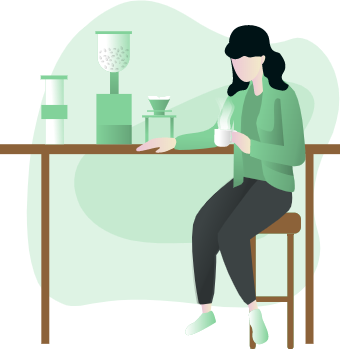
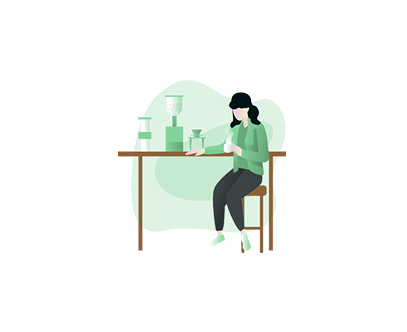
添加数据统计窗口占位图片自定义选项

diff --git a/src/Local/ProjectEye/Views/StatisticWindow.xaml b/src/Local/ProjectEye/Views/StatisticWindow.xaml
@@ -174,7 +174,7 @@
                                         </Grid>
                                         <Grid Grid.Column="1" Margin="0,0,0,0" HorizontalAlignment="Center" VerticalAlignment="Center">
                                             <StackPanel>
-                                                <Image Width="150" Height="150" Source="/ProjectEye;component/Resources/web_developer.png"  HorizontalAlignment="Center"/>
+                                                <Image MaxWidth="300" Source="{Binding Data.WorktimeImageSource}"  HorizontalAlignment="Center"/>
                                                 <TextBlock  HorizontalAlignment="Center" Text="{Binding Data.WorkAnalysis}" TextWrapping="WrapWithOverflow" Margin="0,20,0,0" FontSize="16"/>
                                             </StackPanel>
 
@@ -209,7 +209,7 @@
                                         </Grid>
                                         <Grid Grid.Column="1" Margin="0,0,0,0" HorizontalAlignment="Center" VerticalAlignment="Center">
                                             <StackPanel>
-                                                <Image Width="150" Height="150" Source="/ProjectEye;component/Resources/coffee_lover.png" />
+                                                <Image MaxWidth="300" Source="{Binding Data.ResttimeImageSource}" />
                                                 <TextBlock  HorizontalAlignment="Center" Text="{Binding  Data.RestAnalysis}" TextWrapping="WrapWithOverflow" Margin="0,20,0,0" FontSize="16"/>
                                             </StackPanel>
                                         </Grid>
@@ -245,7 +245,7 @@
                                         </Grid>
                                         <Grid Grid.Column="1" Margin="0,0,0,0" HorizontalAlignment="Center" VerticalAlignment="Center">
                                             <StackPanel>
-                                                <Image Width="150" Height="150" Source="/ProjectEye;component/Resources/office_work_.png" />
+                                                <Image MaxWidth="300" Source="{Binding Data.SkipImageSource}" />
                                                 <TextBlock  HorizontalAlignment="Center" Text="{Binding Data.SkipAnalysis}" TextWrapping="WrapWithOverflow" Margin="0,20,0,0" FontSize="16"/>
                                             </StackPanel>
 

diff --git a/src/Local/ProjectEye/Views/OptionsWindow.xaml b/src/Local/ProjectEye/Views/OptionsWindow.xaml
@@ -469,6 +469,26 @@
                                 </Grid>
                             </StackPanel>
                         </Grid>
+
+                        <TextBlock Text="{DynamicResource Lang_StatisticsWindow}" FontSize="14" FontWeight="Bold" Margin="0,20,0,0"/>
+                        <TextBlock Text="{DynamicResource Lang_DataWindowWorkTimeImagePath}"  Margin="0,15,0,0"/>
+                        <ui:Project1UIInput  TextWrapping="NoWrap" Text="{Binding Model.Data.Style.DataWindowWorkTimeImagePath}" Width="auto" Placeholder="{DynamicResource Lang_Leaveblankfordefault}"
+                                            Type="FileSelect"
+                                                Icon="Photo"
+                                            ExtNames=".jpg|*.jpg|.png|*.png"
+                                             Margin="0,10,0,0"/>
+                        <TextBlock Text="{DynamicResource Lang_DataWindowRestTimeImagePath}"  Margin="0,15,0,0"/>
+                        <ui:Project1UIInput  TextWrapping="NoWrap" Text="{Binding Model.Data.Style.DataWindowRestTimeImagePath}" Width="auto" Placeholder="{DynamicResource Lang_Leaveblankfordefault}"
+                                            Type="FileSelect"
+                                                Icon="Photo"
+                                            ExtNames=".jpg|*.jpg|.png|*.png"
+                                             Margin="0,10,0,0"/>
+                        <TextBlock Text="{DynamicResource Lang_DataWindowSkipImagePath}"  Margin="0,15,0,0"/>
+                        <ui:Project1UIInput  TextWrapping="NoWrap" Text="{Binding Model.Data.Style.DataWindowSkipImagePath}" Width="auto" Placeholder="{DynamicResource Lang_Leaveblankfordefault}"
+                                            Type="FileSelect"
+                                                Icon="Photo"
+                                            ExtNames=".jpg|*.jpg|.png|*.png"
+                                             Margin="0,10,0,0"/>
                     </StackPanel>
                 </ScrollViewer>
             </TabItem>

diff --git a/src/Local/ProjectEye/Resources/Language/en.xaml b/src/Local/ProjectEye/Resources/Language/en.xaml
@@ -204,5 +204,9 @@
     <sys:String x:Key="Lang_Remainingtime">Remaining time</sys:String>
     <sys:String x:Key="Lang_Tomatodescription2">The Pomodoro Technique is a time management method developed by Francesco Cirillo in the late 1980s.The technique uses a timer to break down work into intervals, traditionally 25 minutes in length, separated by short breaks. Each interval is known as a pomodoro, from the Italian word for 'tomato', after the tomato-shaped kitchen timer that Cirillo used as a university student.</sys:String>
     <sys:String x:Key="Lang_Tomato_IsEnabledInteractiveModel">Enabled interactive model</sys:String>
+    <sys:String x:Key="Lang_DataWindowWorkTimeImagePath">Working time placeholder image</sys:String>
+    <sys:String x:Key="Lang_DataWindowRestTimeImagePath">Rest time placeholder image</sys:String>
+    <sys:String x:Key="Lang_DataWindowSkipImagePath">Skip placeholder image</sys:String>
+    <sys:String x:Key="Lang_StatisticsWindow">Statistics window</sys:String>
 
 </ResourceDictionary>

diff --git a/src/Local/ProjectEye/Resources/Language/zh.xaml b/src/Local/ProjectEye/Resources/Language/zh.xaml
@@ -210,5 +210,9 @@
     <sys:String x:Key="Lang_Tomatodescription2">番茄工作法（Pomodoro Technique）是一种时间管理法，在1980年代由Francesco Cirillo创立。该方法使用一个定时器来分割出一个一般为25分钟的工作时间和5分钟的休息时间，而那些时间段被称为pomodoros，为意大利语单词 pomodoro（中文：番茄）之复数。</sys:String>
     <sys:String x:Key="Lang_Tomato_IsEnabledInteractiveModel">启用交互模式</sys:String>
 
+    <sys:String x:Key="Lang_DataWindowWorkTimeImagePath">工作时间占位图片</sys:String>
+    <sys:String x:Key="Lang_DataWindowRestTimeImagePath">休息时间占位图片</sys:String>
+    <sys:String x:Key="Lang_DataWindowSkipImagePath">跳过次数占位图片</sys:String>
+    <sys:String x:Key="Lang_StatisticsWindow">数据统计窗口</sys:String>
 
 </ResourceDictionary>

diff --git a/src/Local/ProjectEye/ViewModels/StatisticViewModel.cs b/src/Local/ProjectEye/ViewModels/StatisticViewModel.cs
@@ -1,4 +1,5 @@
 using Project1.UI.Controls.ChartControl.Models;
+using Project1.UI.Cores;
 using ProjectEye.Core;
 using ProjectEye.Core.Service;
 using ProjectEye.Models;
@@ -61,9 +62,20 @@ namespace ProjectEye.ViewModels
             HandleMonthData();
             HandleWeekData();
             Analysis();
+            LoadImages();
         }
 
+        private void LoadImages()
+        {
+            string worktimeimgpath = string.IsNullOrEmpty(config.options.Style.DataWindowWorkTimeImagePath) ? "pack://application:,,,/ProjectEye;component/Resources/web_developer.png" : config.options.Style.DataWindowWorkTimeImagePath;
+            string resttimeimgpath = string.IsNullOrEmpty(config.options.Style.DataWindowRestTimeImagePath) ? "pack://application:,,,/ProjectEye;component/Resources/coffee_lover.png" : config.options.Style.DataWindowRestTimeImagePath;
+            string skipimgpath = string.IsNullOrEmpty(config.options.Style.DataWindowSkipImagePath) ? "pack://application:,,,/ProjectEye;component/Resources/office_work_.png" : config.options.Style.DataWindowSkipImagePath;
 
+            Data.WorktimeImageSource = BitmapImager.Load(worktimeimgpath);
+            Data.ResttimeImageSource= BitmapImager.Load(resttimeimgpath);
+            Data.SkipImageSource = BitmapImager.Load(skipimgpath);
+
+        }
 
         private void MigrateCheck()
         {

diff --git a/src/Local/ProjectEye/Models/StatisticModel.cs b/src/Local/ProjectEye/Models/StatisticModel.cs
@@ -1,5 +1,6 @@
 using Project1.UI.Controls.ChartControl.Models;
 using System.Collections.Generic;
+using System.Windows.Media;
 
 namespace ProjectEye.Models
 {
@@ -410,6 +411,47 @@ namespace ProjectEye.Models
             }
         }
         #endregion
+        #endregion
+
+        #region 窗口占位图片
+        private ImageSource WorktimeImageSource_;
+        public ImageSource WorktimeImageSource
+        {
+            get
+            {
+                return WorktimeImageSource_;
+            }
+            set
+            {
+                WorktimeImageSource_ = value;
+            }
+        }
+
+        private ImageSource ResttimeImageSource_;
+        public ImageSource ResttimeImageSource
+        {
+            get
+            {
+                return ResttimeImageSource_;
+            }
+            set
+            {
+                ResttimeImageSource_ = value;
+            }
+        }
+        private ImageSource SkipImageSource_;
+        public ImageSource SkipImageSource
+        {
+            get
+            {
+                return SkipImageSource_;
+            }
+            set
+            {
+                SkipImageSource_ = value;
+            }
+        }
+
         #endregion
     }
 }

diff --git a/src/Local/ProjectEye/Core/Models/Options/StyleModel.cs b/src/Local/ProjectEye/Core/Models/Options/StyleModel.cs
@@ -94,5 +94,17 @@ namespace ProjectEye.Core.Models.Options
         /// 语言
         /// </summary>
         public ComboxModel Language { get; set; } = new ComboxModel() { DisplayName = "中文", Value = "zh" };
+        /// <summary>
+        /// 数据统计窗口工作时间占位图路径
+        /// </summary>
+        public string DataWindowWorkTimeImagePath { get; set; }
+        /// <summary>
+        /// 数据统计窗口休息时间占位图路径
+        /// </summary>
+        public string DataWindowRestTimeImagePath { get; set; }
+        /// <summary>
+        /// 数据统计窗口跳过次数占位图路径
+        /// </summary>
+        public string DataWindowSkipImagePath { get; set; }
     }
 }
